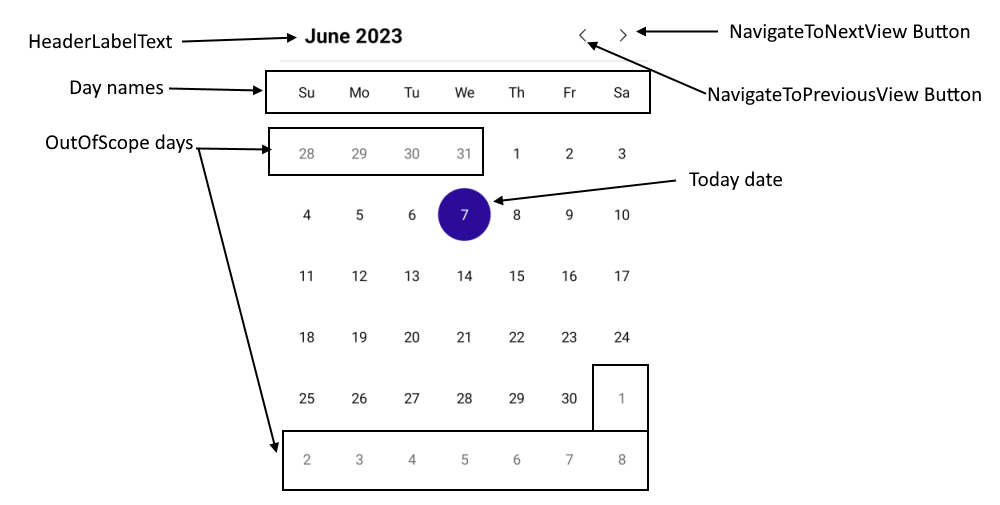
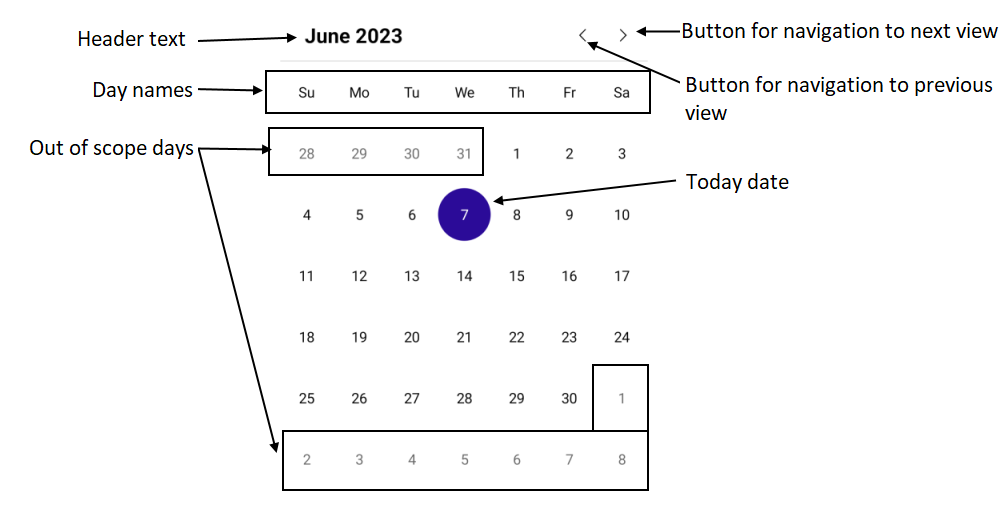
Address comments for visual stucture and templates

diff --git a/controls/calendar/templates.md b/controls/calendar/templates.md
@@ -8,7 +8,7 @@ slug: calendar-templates-overview
 
 # .NET MAUI Calendar Templates
 
-If the default templates of the control do not suit your needs, you can easily define custom ones. The available templates for customizing are:
+If the default look how the days, months, years and decades are presented do not match your use case, you can define custom templates. The available templates for customizing are:
 
 * `DayTemplate `(`DataTemplate`)&mdash;Specifies the content templates for the days in the month view of the Calendar.
 * `MonthTemplate `(`DataTemplate`)&mdash;Specifies the content templates for the months in the year view of the Calendar.
@@ -19,7 +19,7 @@ If the default templates of the control do not suit your needs, you can easily d
 
 <snippet id='calendar-templates-daytemplate-usage'/>
 
-And the template definition
+Here is a sample day template definition for customizing the days in the `MonthView`.
 
 <snippet id='calendar-templates-daytemplate-definition'/>
 
@@ -29,7 +29,7 @@ And the template definition
 
 <snippet id='calendar-templates-monthtemplate-usage'/>
 
-And the template definition
+Here is a sample month template definition for customizing the months in the `YearView`.
 
 <snippet id='calendar-templates-monthtemplate-definition'/>
 
@@ -39,7 +39,7 @@ And the template definition
 
 <snippet id='calendar-templates-yeartemplate-usage'/>
 
-And the template definition
+Here is a sample year template definition for customizing the years in the `DecadeView`.
 
 <snippet id='calendar-templates-yeartemplate-definition'/>
 
@@ -49,7 +49,7 @@ And the template definition
 
 <snippet id='calendar-templates-decadetemplate-usage'/>
 
-And the template definition
+Here is a sample decade template definition for customizing the decades in the `CenturyView`.
 
 <snippet id='calendar-templates-decadetemplate-definition'/>
 
@@ -57,9 +57,9 @@ And the template definition
 
 ## Template Selectors
 
-You can easy apply a template selector the calendar templates as they are of type `DataTemplate`. 
+You can apply a template selector the calendar templates as they are of type `DataTemplate`. 
 
-The following example demonstrates a DayTemplate that uses a Template Selector.
+The following example demonstrates a `DayTemplate` that uses a Template Selector.
 
 <snippet id='calendar-templates-templateselector-usage'/>
 

diff --git a/controls/calendar/visual-structure.md b/controls/calendar/visual-structure.md
@@ -16,9 +16,9 @@ The .NET MAUI Calendar visual elements are represented on the image below.
 
 ## Legend
 
-- `HeaderLabelText`&mdash;The user can click the header label to navigate to the parent view.
-- `NavigateToNextViewButton`&mdash;A button that navigates to the next view.
-- `NavigateToNextViewButton`&mdash;A button that navigates to the previous view.
-- `DayNames`&mdash;The names of the days of the week.
-- `OutOfScopeDays`&mdash;The days that don't belong to the current month.
+- `Header text`&mdash;The user can click the header label to navigate to the parent view.
+- `Button for navigation to next view`&mdash;A button that navigates to the next view.
+- `Button for navigation to previous view`&mdash;A button that navigates to the previous view.
+- `Day names`&mdash;The names of the days of the week.
+- `Out of scope days`&mdash;The days that don't belong to the current month(for month view).
 - `Today date`&mdash;The current date.
